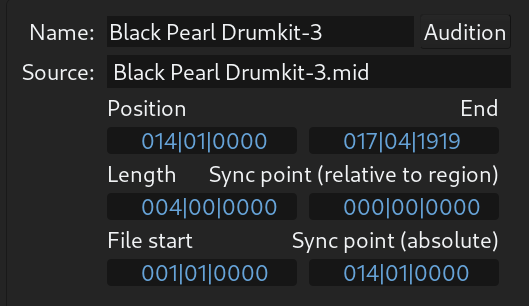
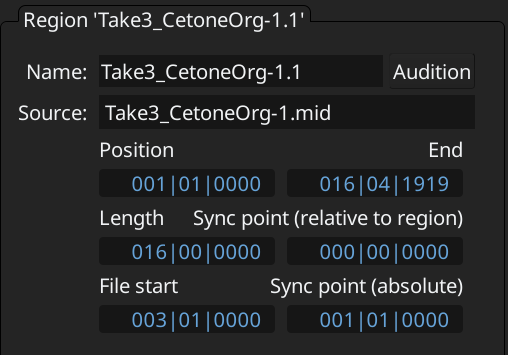
9.0: region editing

diff --git a/source/midi/midi-editing/region-editor.rst b/source/midi/midi-editing/region-editor.rst
@@ -1,0 +1,134 @@
+.. _region_editor:
+
+Region editor
+=============
+
+The region editor is located at the bottom of Editor and Cue windows. To
+open a MIDI region for editing, make sure the :ref:`bottom pane is
+enabled <pane_controls>` and click on a region in the timeline.
+
+The user interface largely resembles that of in-place editing in the
+main window on the timeline and is the same as in the :ref:`pianoroll
+windows <pianoroll_window>`.
+
+.. figure:: images/region-editor.png
+   :alt: Region editor
+
+   Region editor
+
+#. Region properties pane
+#. Editor toolbar
+#. Note editing area
+#. Automation editing area
+
+Region properties pane
+----------------------
+
+This pane displays essential information about the MIDI region.
+
+.. figure:: images/pianoroll-window-region-properties.png
+   :alt: Region properties
+   :width: 50.0%
+
+-  Name: the name of the region
+-  Source: the MIDI file where the notes are stored
+-  Position: where on the timeline the region starts
+-  End: where on the timeline the region ends
+-  Length: the duration of the region
+-  File start: where the visible part of the region begins, counting
+   from the region's start
+-  Sync point (relative to the region)
+-  Sync point (absolute)
+
+Editor toolbar
+--------------
+
+The editor toolbar provides playback, editing, and zoom controls.
+
+.. figure:: images/pianoroll-window-toolbar.png
+   :alt: Pianoroll toobar
+   :width: 100.0%
+
+Playback controls:
+
+-  Play once starting at the beginning of the region
+-  Loop-playback the region until stopped
+-  Solo toggle for the track where the region is located
+
+Note display controls:
+
+-  Select visible MIDI channel: notes on this channel will be editable,
+   notes on other channels will be displayed as ghost notes that cannot
+   be edited
+-  Note mode selector: whether to display notes in regular or drum
+   (diamond-shaped) mode
+-  Follow playhead: whether the pianoroll window should automatically
+   scroll horizontally to follow the playhead
+
+Note editing controls:
+
+-  Draw vs Edit mode selection
+-  Snapping toggle: enables or disables snapping to selected grid units
+-  Grid mode: allows selecting a specific grid unit or no grid at all
+-  Length: default note length for notes created by single-clicking on
+   the timeline
+-  Velocity: default note velocity. The 'Auto' option inherits the
+   velocity from the nearest note
+
+Zoom controls:
+
+-  Zoom in
+-  Zoom out
+-  Zoom to show the entire region
+-  Zoom focus mode
+
+Note area
+---------
+
+This areas displays all editable notes and provides control for panning
+between staves and tweaking the beginning and the end of the region.
+
+.. figure:: images/pianoroll-window-editing-area.png
+   :alt: Note editing area in the pianoroll window
+   :width: 100.0%
+
+The area on the left controls the visible note range. :ref:`See
+here <controlling_midi_range>` for the detailed explanation how to
+use the widget.
+
+The orange handles on the left and on the right control the start and
+the end of the region's visible part. For example, dragging the orange
+start marker (on the left) to the right is equivalent to using the Grab
+tool to pick the left side of the region and trim the beginning of the
+region.
+
+Drawing and editing MIDI notes works the same way as in the main window:
+
+-  Select the Draw mode and then click and drag to add a note.
+   Alternatively, press and hold Shift and click and drag to brush notes
+   at the interval defined by global quantization.
+-  Select the Edit mode, click on a note or rubberband-select multiple
+   note, then click and drag notes by their middle to move them, or
+   click and drag on the left or the right side of one note to trim or
+   extend.
+
+Automation area
+---------------
+
+This area displays note velocity and controllers and is disabled by
+default. Clicking on any of the available controller options (Velocity,
+Bender, Pressure, Modulation) enables it.
+
+.. figure:: images/pianoroll-window-automation-area.png
+   :alt: Automation area in the pianoroll window
+   :width: 100.0%
+
+To enable or disable an automation lane, click on the small LED
+indicator to the left of its name on the bottom toolbar.
+
+The area can display data from multiple controllers, overlaid on top of
+each other, but only one automation lane is editable at the time.
+
+To select the automation lane to edit, click on the controller name. The
+lane data will become editable, and the relevant button will get a red
+outline (Velocity on the screenshot above).

diff --git a/source/midi/midi-editing/index.rst b/source/midi/midi-editing/index.rst
@@ -33,6 +33,7 @@ Here are the key features of MIDI editing in Ardour:
    :caption: Contents
 
    pianoroll-window.rst
+   region-editor.rst
    controlling-midi-range.rst
    add-new-notes.rst
    handling-overlapping-notes.rst
